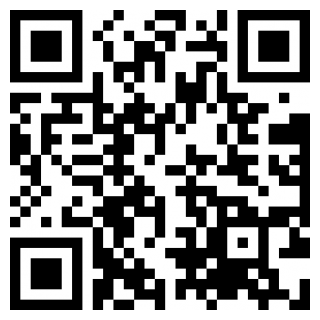
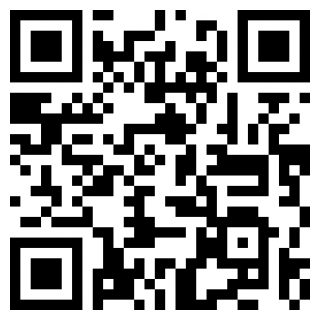
完成微信支付，查询，撤销测试

diff --git a/src/Wechatpay.php b/src/Wechatpay.php
@@ -35,7 +35,7 @@ class Wechatpay
         $this->gateway->setMchId('1268498801');
         $this->gateway->setApiKey('t4IYxcncB94TMAp5c0ZCkQKwjseDJBGA');
 //        $this->gateway->setApiKey('a9afd80709f76892dd541f9c6aa6365a');//沙箱api秘钥
-        $this->gateway->setNotifyUrl('http://pay.ibenchu.xyz:8080');
+        $this->gateway->setNotifyUrl('http://lxnotadd.com');
 
         return $this;
     }
@@ -43,11 +43,12 @@ class Wechatpay
     public function pay(Array $para)
     {
 
-        //http://pay.ibenchu.xyz:8080/api/multipay/pay?driver=wechat&way=WechatPay_Native&app_id=wx2dd40b5b1c24a960&mch_id=1235851702&body=Iphone8&total_fee=10&out_trade_no=201706091212121000&spbill_create_ip=36.45.175.53&notify_url=http://pay.ibenchu.xyz:8080&nonce_str=c3b570e1c8441c0ae1f435c3c4de8464&trade_type=NATIVE
+       // http://lxnotadd.com/webnotify?driver=wechat&way=WechatPay_Native&app_id=wx081bfce94ce71bfb&mch_id=1268498801&body=test&total_fee=1&out_trade_no=201706091212121004&spbill_create_ip=36.45.175.53&notify_url=http://lxnotadd.com&trade_type=NATIVE
 
 
         $para = [
             'body' => 'test',
+            'openid'=>'oTIyBw_wQrCOWeQg4ybxsAyiv70E',
             'notify_url' => 'http://lxnotadd.com',
             'out_trade_no' => '201706091212121007',
             'spbill_create_ip' => '36.45.175.53',
@@ -82,17 +83,9 @@ class Wechatpay
     public function webNotify(Array $para){
 
 
-        $sign = Helper::getsign($para);
 
-        $para2 = [
-            'sign' => $sign
-        ];
+        $response = $this->gateway->completePurchase()->send();
 
-        $options = $para + $para2;
-        if('return_code'=='SUCCESS' && $sign === $options['sign']){
-
-        }
-        $response = $this->gateway->completePurchase($options)->send();
         if ( $response->isPaid()) {
             var_dump($response->getData());
         } else {
@@ -118,8 +111,7 @@ class Wechatpay
 
     //退款
     public function refund(Array $para){
-        $certpath = '../strorage/uploads';
-        $keypath = '../strorage/uploads';
+
 
         $para = [
             'body' => 'test',
@@ -128,11 +120,14 @@ class Wechatpay
             'spbill_create_ip' => '36.45.175.53',
             'total_fee' => 1,
             'trade_type' => 'NATIVE',
-            'certpath'=>$certpath,
-            'keypath'=>$keypath
+            'out_refund_no'=>'126849880120170616161813' ,
+            'refund_fee'=>1,
+            'cert_path'=>'/weixin/cert',
+            'key_path'=>'/weixin/cert'
         ];
+
         $response = $this->gateway->refund($para)->send();
-        dd($response);
+
         $response->isSuccessful();
     }
 
@@ -144,10 +139,11 @@ class Wechatpay
         $para = [
             'body' => 'test',
             'notify_url' => 'http://lxnotadd.com',
-            'out_trade_no' => '201706091212121005',
+            'out_trade_no' => '201706091212121004',
             'spbill_create_ip' => '36.45.175.53',
             'total_fee' => 1,
             'trade_type' => 'NATIVE',
+
         ];
 
 

diff --git a/src/Multipay.php b/src/Multipay.php
@@ -93,6 +93,7 @@ class Multipay
      *
      */
     public function webNotify($driver, $way, $para){
+
         $this->getDriver($driver)->getGateWay($way)->webNotify($para);
     }
 
